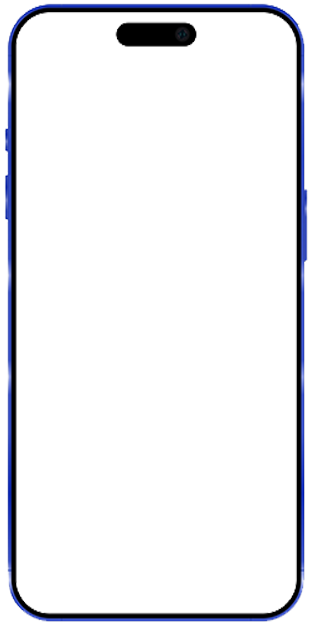
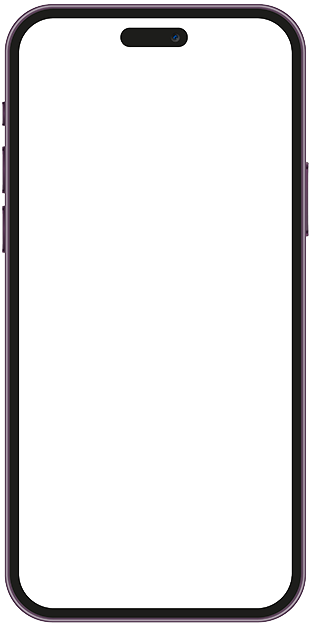
Update

Changed region(s): [[0.0, 0.0, 1.0, 1.0]]

diff --git a/estilos/style.css b/estilos/style.css
@@ -13,15 +13,15 @@ html, body {
 }
 
 body {
-    background: url(../imagens/fundo-madeira.jpg) center center no-repeat fixed;
+    background: url(../imagens/fundo-madeira.jpg) no-repeat 
+    top center;
     background-size: cover;
     background-attachment: fixed;
 }
 
 main {
-    height: 100vh;
     position: relative;
-    
+    height: 100vh;
 }
 
 section#telefone {
@@ -30,12 +30,16 @@ section#telefone {
     left: 50%;
     transform: translate(-50%, -50%);
     
-    height: 625px;
+    height: 627px;
     width: 311px;
-    background: url(../imagens/frame-iphone2.png) no-repeat ;
+    background: url(../imagens/frame-iphone.png) no-repeat;
+    background-size: cover;
 }
 
-iframe {
-    height: 720px;
-    width: 400px;
+iframe#tela {
+    position: relative;
+    top: 79px;
+    left: 20px;
+    width: 270px;
+    height: 475px;
 }

diff --git a/home.html b/home.html
@@ -14,7 +14,9 @@
         body {
             width: 100vh;
             height: 100vw;
-            background: black url(imagens/tela-home.jpg) no-repeat top center;
+            background: black url(imagens/tela-home.jpg) no-repeat
+            top center;
+            background-size: cover;
         }
     </style>
 </head>

diff --git a/index.html b/index.html
@@ -11,7 +11,7 @@
 <body>
     <main>
         <section id="telefone">
-            
+            <iframe src="home.html" name="tela" id="tela" frameborder="0" scrolling="no" ></iframe>
         </section>
         <section id="redes-sociais">
 
